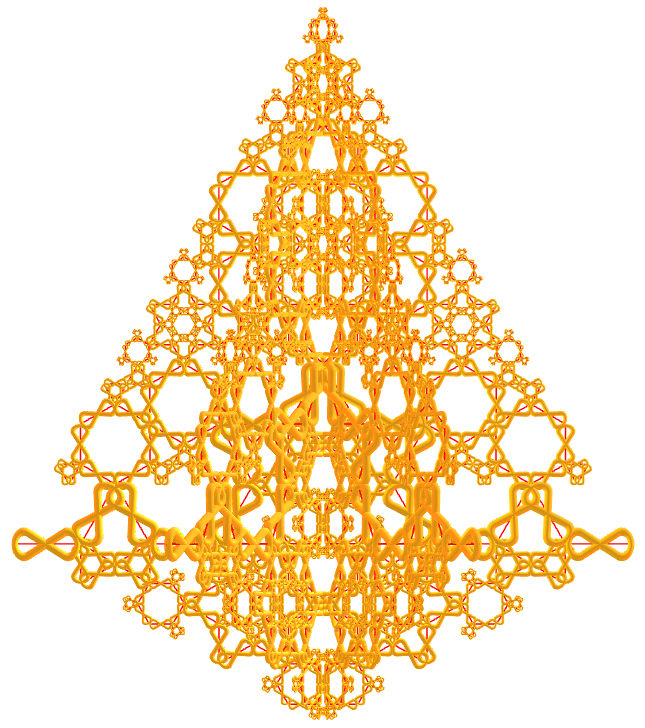
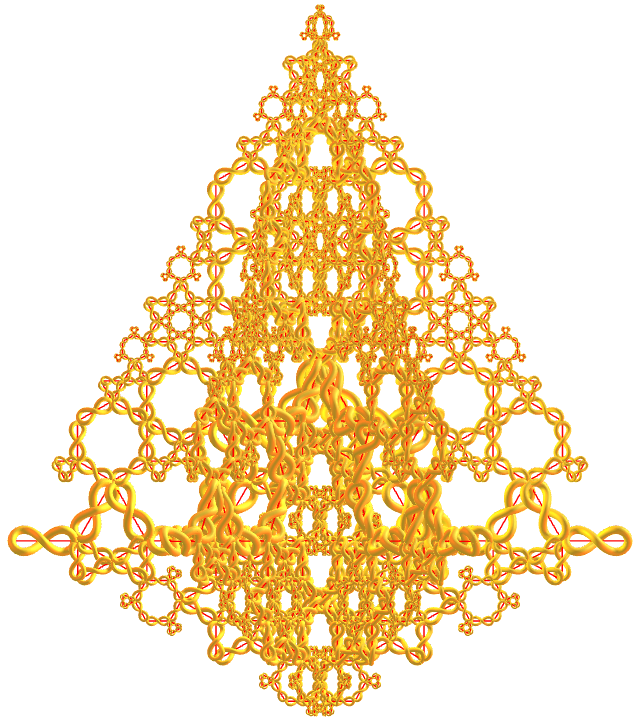
update

diff --git a/holidaytree/vr/curve101.htm b/holidaytree/vr/curve101.htm
@@ -20,17 +20,17 @@
 			<a-mixin id="p4a" position="0 2.448 0" rotation="0 0 0" mixin="sc"></a-mixin>
 			<a-mixin id="p5a" position="0.353 1.836 0" rotation="0 0 60" mixin="sc"></a-mixin>
 			
-			<a-mixin id="sc" scale="0.2328 0.2328 0.2328"></a-mixin>
-			<a-mixin id="sc1" scale="0.4 0.4 0.4"></a-mixin>
+			<a-mixin id="sc" scale="0.3242 0.3242 0.3242"></a-mixin>
+			<a-mixin id="sc1" scale="0.557 0.557 0.557"></a-mixin>
 			<!--SCALE = scale de MTL4 * 0.475 e 0.816 -->
-			<a-mixin scale="2.04 2.04 2.04" rotation="0 0 0" id="ar" line__0="start: -1.5 0 0; end: 1.5 0 0; color: red"></a-mixin><!--SCALE = inverso do scale de MTL4 -->
+			<a-mixin scale="1.465 1.465 1.465" rotation="0 0 0" id="ar" line__0="start: -1.5 0 0; end: 1.5 0 0; color: red"></a-mixin><!--SCALE = inverso do scale de MTL4 -->
 			
-			<a-mixin id="mtl4" scale="0.4902 0.4902 0.4902" gltf-model="#aq"></a-mixin>
+			<a-mixin id="mtl4" scale="0.6826 0.6826 0.6826" gltf-model="#aq"></a-mixin>
 			<!--SCALE = scale original * 0.618919 -->
 			<a-mixin id="mtl1" material="color: #5cb404; side:double;">
 			<a-asset-item id="mt" src="https://paulohscwb.github.io/polyhedra2/fractalnonconvex/vr/outros/c1b.mtl"></a-asset-item>
 			<a-asset-item id="mt1" src="https://paulohscwb.github.io/polyhedra2/fractalnonconvex/vr/outros/c2.mtl"></a-asset-item>
-			<a-asset-item id="aq" src="https://paulohscwb.github.io/SacredGeometry/flower/vr/outros/lemniscata.glb"></a-asset-item>
+			<a-asset-item id="aq" src="https://paulohscwb.github.io/SacredGeometry/flower/vr/outros/lemniscata2.glb"></a-asset-item>
 		</a-assets>
 		<a-light type="point" color="yellow" intensity="1"></a-light>
 		<a-entity scale="2.7 2.7 2.7" rotation="0 0 0" position="0 -1.5 0">
